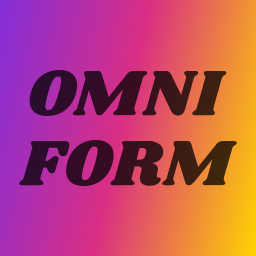
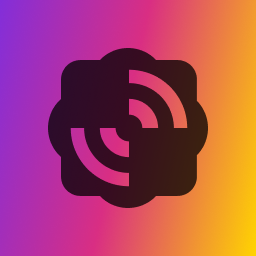
Update plugin assets and GitHub readme

Changed region(s): [[0.0625, 0.1875, 0.9375, 0.8125], [0.2188, 0.3438, 0.25, 0.4062]]

diff --git a/README.md b/README.md
@@ -1,33 +1,33 @@
-# OmniForm
+# OmniForm: Form Building inside the Block Editor
+
+[![OmniForm](.wordpress-org/banner-1544x500.png)](https://omniform.io/)
 
 OmniForm is a powerful WordPress plugin that allows you to create and manage forms within your WordPress site.
 
+## Requirements
+
+- PHP 7.4+
+- [WordPress](http://wordpress.org/) 6.2+
+
 ## Installation
 
-### Requirements
+[Download the latest release from Github](https://github.com/jrtashjian/omniform/releases/latest).
 
-- [Node.js](https://nodejs.org)
-- [Composer](https://getcomposer.org)
+You can upload and install the archived (zip) plugin via the WordPress dashboard (`Plugins` > `Add New` -> `Upload Plugin`) or manually inside of the `wp-content/plugins` directory, and activate on the Plugins dashboard.
 
-### Quick Start
+## Development
 
 Clone this repository:
-
 ```
 git clone https://github.com/jrtashjian/omniform.git
 ```
 
 Install the necessary Node.js and Composer dependencies:
-
 ```
-$ composer install
-$ npm install
+composer install && npm install
 ```
 
-### Available CLI commands
-
-- `composer lint` : checks all PHP files for syntax errors.
-- `composer format` : fixes all automatically fixable syntax errors.
-- `npm run wp-env` : exposes all commands available in [`@wordpress/env`](https://github.com/WordPress/gutenberg/tree/wp/6.0/packages/env)
-- `npm run build` : compiles all scripts and styles distribution.
-- `npm run dev` : compiles all scripts and styles for development.
+Run the development build which will watch for changes:
+```
+npm run dev
+```
